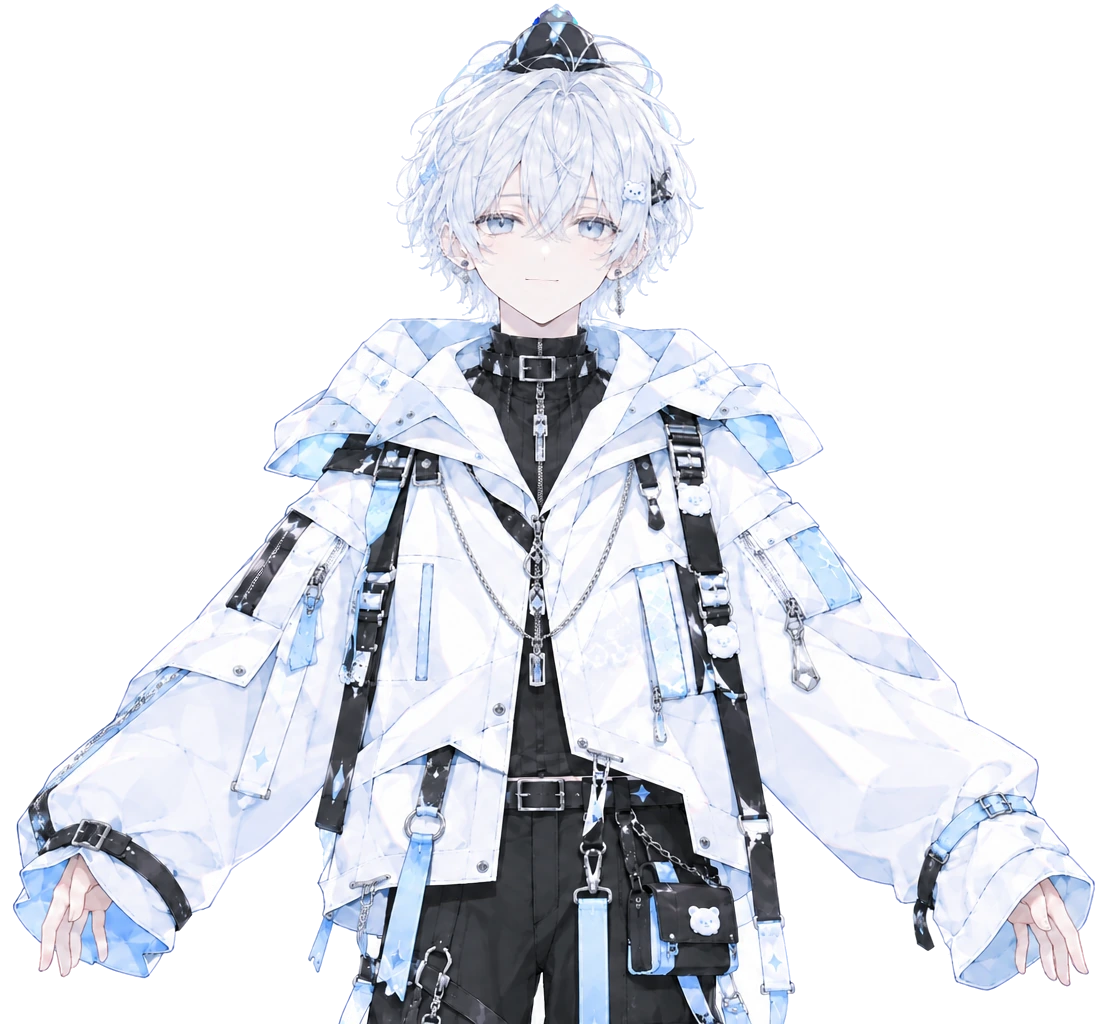
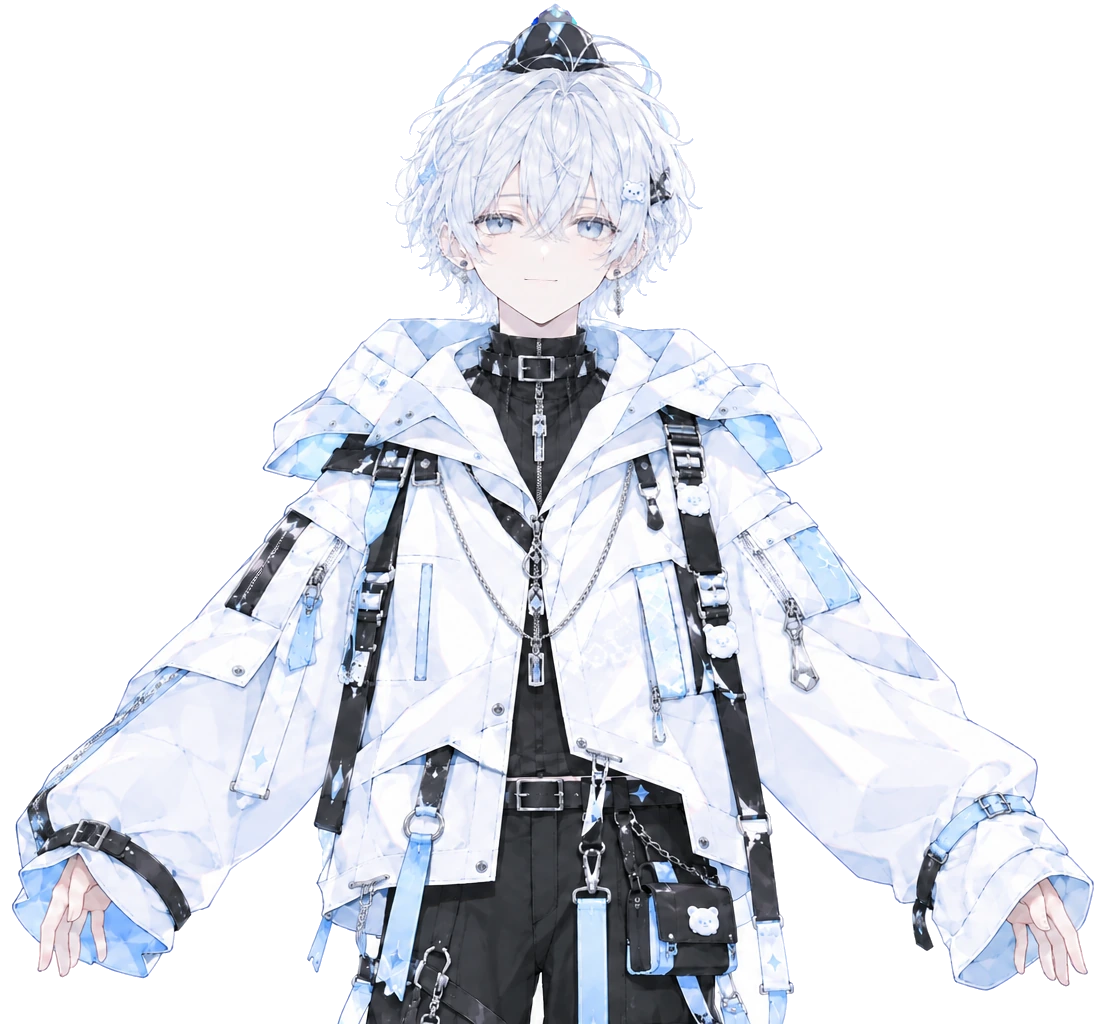
氷色ビッシューネンの立ち絵の白フチを除去 (輪郭内側の半透明の筋と毛の隙間に残った白背景を消す)

diff --git a/public/builtin/pngtuber.js b/public/builtin/pngtuber.js
@@ -11,8 +11,8 @@ const SPRITES = {
     dir: '/builtin/hyoshoku/',
     base: 'base.webp',
     mouths: ['mouth-half.png', 'mouth-open.png'],
-    mouthAt: { x: 509, y: 260 }, // 口の差分を貼る位置 (base 画像上の座標)
-    width: 1107,
+    mouthAt: { x: 508, y: 260 }, // 口の差分を貼る位置 (base 画像上の座標)
+    width: 1106,
     height: 1024,
   },
 };
